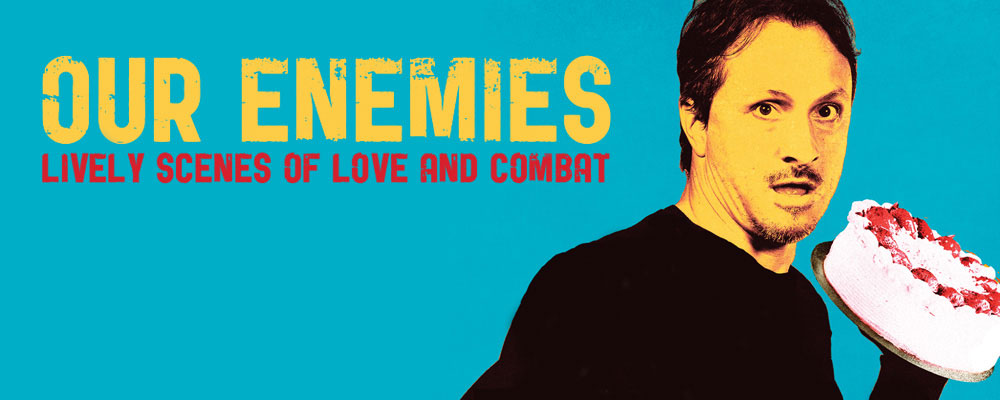
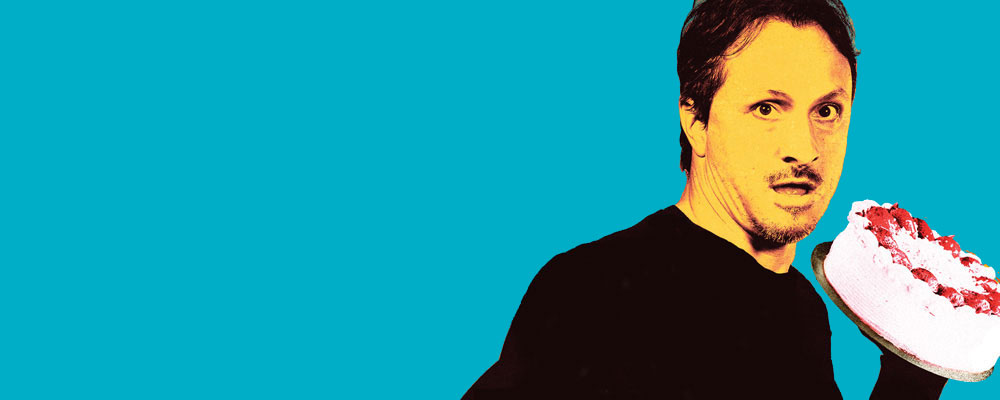
added title image

Changed region(s): [[0.031, 0.12, 0.62, 0.48], [0.992, 0.9, 1.0, 0.93], [0.992, 0.66, 1.0, 0.69]]

diff --git a/site/layouts/productions/single.html b/site/layouts/productions/single.html
@@ -7,7 +7,7 @@
       <div class="cms w-60-ns">
         <h2 class="lh-title b mb3">{{ .Params.heading }}</h2>
         <p>{{ .Description | markdownify }}</p>
-        <!-- {{ if .Params.image }}<img src="{{ .Params.image }}" alt="{{ .Title }}" />{{ end }} -->
+        {{ if .Params.titleimage }}<img src="{{ .Params.titleimage }}" alt="{{ .Title }}" />{{ end }}
         {{ if .Params.videos }}
           <div class="mb4">
             {{ range .Params.videos }}

diff --git a/site/content/productions/our-enemies.md b/site/content/productions/our-enemies.md
@@ -1,6 +1,6 @@
 ---
 title: Our Enemies
-subtitle: Lively Scenes of Love and Combat
+subtitle: LIVELY SCENES OF LOVE AND COMBAT
 date: 2016-10-28T15:04:10.000Z
 start: 2016-11-20T15:04:10.000Z
 end: 2016-05-29T15:04:10.000Z
@@ -10,7 +10,7 @@ menu:
 heading: A West Coast Premiere Play by Yussef El Guindi
 description: >-
   Struggling writer Gamal hates the way his fellow Arab-Americans represent their culture on American media. It’s easy enough to take out his frustration on literature superstar Mohsen and local mosque leader, Sheikh Alfani. But when his own girlfriend and novelist Noor gets an offer from a major publisher backed with a national media campaign, how will Gamal manage his frustration?<br /><br />Award-winning Egyptian-American playwright Yussef El Guindi holds the honor of being the most produced writer at Golden Thread. El Guindi has won the Steinberg/American Theater Critics Association’s New Play Award in 2012, and was the recipient of the 2010 Middle East America Distinguished Playwright Award. His previous premieres with the company include <em>Language Rooms</em>, <em>Jihad Jones and the Kalashnikov Babes</em>, <em>Back of the Throat</em>, <em>Scenic Routes</em>, and many shorts in ReOrient Festivals. Golden Thread performed El Guindi’s <em>Karima’s City</em> at the Cairo International Festival for Experimental Theatre in 2004.
-
+titleimage: /img/title-our-enemies.jpg
 background: /img/hero-our-enemies.jpg
 writer: Yussef El Guindi
 director: Torange Yeghiazarian
